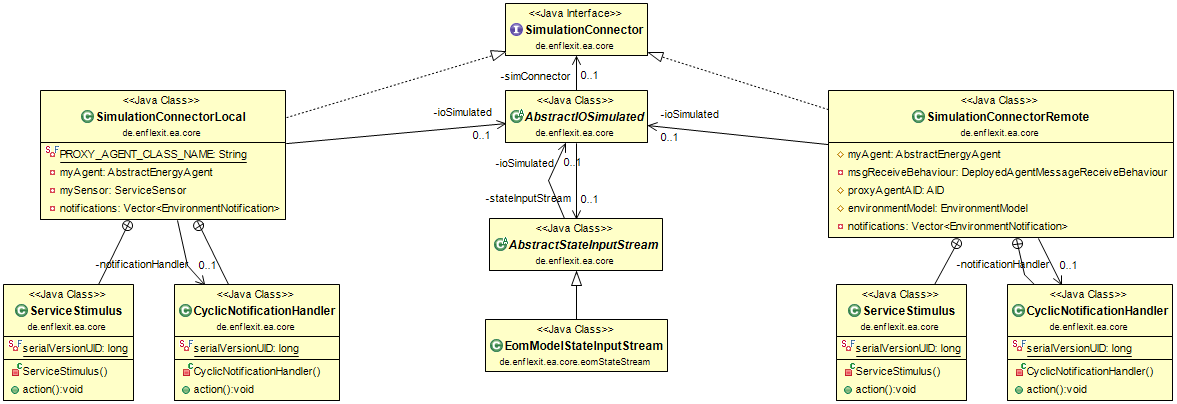
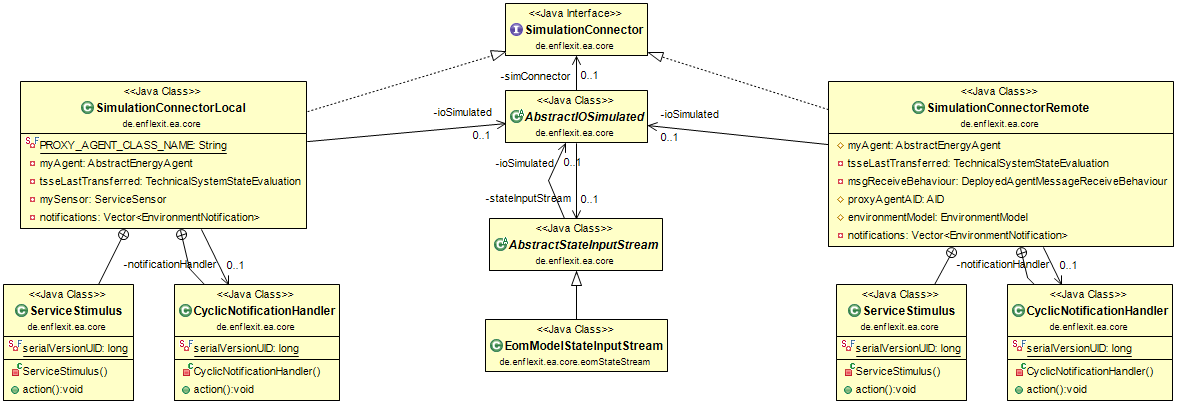
Fixed the transfer of TSSEs to the simulation manager in discrete simulations when EOM timesteps != simulation steps

diff --git a/eclipseProjects/de.enflexit.ea/bundles/de.enflexit.ea.core/src/de/enflexit/ea/core/eomStateStream/EomModelStateInputStream.java b/eclipseProjects/de.enflexit.ea/bundles/de.enflexit.ea.core/src/de/enflexit/ea/core/eomStateStream/EomModelStateInputStream.java
@@ -551,93 +551,124 @@ public class EomModelStateInputStream extends AbstractStateInputStream {
 		this.stopTimeTriggerForSystemInput();
 	}
 	
+	
 	// ----------------------------------------------------------------------------------
 	// --- From here, methods for the simulation runtime can be found ------------------- 
 	// ----------------------------------------------------------------------------------
 	/* (non-Javadoc)
-	 * @see de.enflexit.energyAgent.core.eomStateStream.AbstractStateInputStream#getSystemState(long)
+	 * @see de.enflexit.ea.core.AbstractStateInputStream#getSystemState(long)
 	 */
 	@Override
-	public TechnicalSystemStateEvaluation getSystemState(long simTime) {
+	public TechnicalSystemStateEvaluation getSystemStateForTimeModelContinuous(long simTime) {
 		
 		TechnicalSystemStateEvaluation tsseAnswer = null;
-		
 		AbstractIOSimulated ioSimulated = this.getIoSimulated();
-		switch (ioSimulated.getTimeModelType()) {
-		case TimeModelDiscrete:
-			if (this.getRealTimeStrategy()!=null) {
-				// --------------------------------------------------------
-				// --- Work on the real time strategy for this system ----- 
-				// --------------------------------------------------------
-				TechnicalSystemStateEvaluation tsseLocal = this.getTechnicalSystemStateEvaluationFromRealTimeStrategy(simTime);
-				if (tsseLocal!=null) {
-					// --- Adjust system state regarding parent and time --
-					tsseAnswer = this.getTechnicalSystemStateEvaluationCloneWithoutParent(tsseLocal);
-					if (tsseLocal.getParent()!=null) {
-						tsseAnswer.setStateTime(ioSimulated.getTimeModelDiscrete().getStep());
-					}
-				}
-				
+		
+		if (this.getRealTimeStrategy()!=null) {
+			// --------------------------------------------------------
+			// --- Work on the real time strategy for this system ----- 
+			// --------------------------------------------------------
+			TechnicalSystemStateEvaluation tsseLocal = this.getTechnicalSystemStateEvaluationFromRealTimeStrategy(simTime);
+			if (tsseLocal!=null) {
+				// --- Adjust system state regarding parent and time --
+				tsseAnswer = this.getTechnicalSystemStateEvaluationCloneWithoutParent(tsseLocal);
+			}
+			
+		} else {
+			// --------------------------------------------------------
+			// --- Work on the static schedule for this system --------
+			// --------------------------------------------------------
+			tsseAnswer = this.getTechnicalSystemStateEvaluation4Time(simTime, true);	
+		}
+		
+		// --- Start the process according to the simulated time ------  
+		if (this.getRealTimeStrategy()!=null) {
+			// --------------------------------------------------------
+			// --- Work with the real time strategy for this system --- 
+			// --------------------------------------------------------
+			if (tsseAnswer!=null) {
+				this.startTimeTriggerForSystemInputRT(tsseAnswer.getGlobalTime());
 			} else {
-				// --------------------------------------------------------
-				// --- Work on the static schedule for this system --------
-				// --------------------------------------------------------
-				if (this.tsseAnswerNext!=null && this.tsseAnswerNext.getGlobalTime()==simTime) {
-					tsseAnswer = this.tsseAnswerNext;
-				} else {
-					tsseAnswer = this.getTechnicalSystemStateEvaluation4Time(simTime, false);
-				}
+				// --- Send that this IO will not send further information --
+				ioSimulated.getSimulationConnector().sendManagerNotification(STATE_CONFIRMATION.Done);
+			}
+			
+		} else {
+			// --------------------------------------------------------
+			// --- Work on the static schedule for this system --------
+			// --------------------------------------------------------
+			this.startTimeTriggerForSystemInput();
+		}
+		return tsseAnswer;
+	}
+	
+	/* (non-Javadoc)
+	 * @see de.enflexit.ea.core.AbstractStateInputStream#getSystemState(long, long)
+	 */
+	@Override
+	public TechnicalSystemStateEvaluation getSystemStatesForTimeModelDiscrete(long simTime, long timeStep) {
+		
+		TechnicalSystemStateEvaluation tsseAnswer = null;
+		AbstractIOSimulated ioSimulated = this.getIoSimulated();
+		long simStepBegin = simTime - timeStep;
+		if (this.getRealTimeStrategy()!=null) {
+			// --------------------------------------------------------
+			// --- Work on the real time strategy for this system ----- 
+			// --------------------------------------------------------
+			TechnicalSystemStateEvaluation tsseLocal = this.getTechnicalSystemStateEvaluationFromRealTimeStrategy(simTime);
+			
+			if (tsseLocal!=null) {
+				tsseAnswer = this.cloneTsseWithLimitedParents(tsseLocal, simStepBegin);
+			}
+			
+		} else {
+			// --------------------------------------------------------
+			// --- Work on the static schedule for this system --------
+			// --------------------------------------------------------
+			if (this.tsseAnswerNext!=null && this.tsseAnswerNext.getGlobalTime()==simTime) {
+				tsseAnswer = this.tsseAnswerNext;
+			} else {
+				TechnicalSystemStateEvaluation scheduleStateForTime = this.getTechnicalSystemStateEvaluation4Time(simTime, false, false);
+				tsseAnswer = this.cloneTsseWithLimitedParents(scheduleStateForTime, simStepBegin);
 			}
 			
 			// ------------------------------------------------------------
 			// --- Get the system state for the next time step ------------
 			// ------------------------------------------------------------
 			long simTimeNext = simTime + ioSimulated.getTimeModelDiscrete().getStep();
-			this.tsseAnswerNext = this.getTechnicalSystemStateEvaluation4Time(simTimeNext, false);
-			// ------------------------------------------------------------
-			break;
-
-		case TimeModelContinuous:
-			if (this.getRealTimeStrategy()!=null) {
-				// --------------------------------------------------------
-				// --- Work on the real time strategy for this system ----- 
-				// --------------------------------------------------------
-				TechnicalSystemStateEvaluation tsseLocal = this.getTechnicalSystemStateEvaluationFromRealTimeStrategy(simTime);
-				if (tsseLocal!=null) {
-					// --- Adjust system state regarding parent and time --
-					tsseAnswer = this.getTechnicalSystemStateEvaluationCloneWithoutParent(tsseLocal);
-				}
-				
-			} else {
-				// --------------------------------------------------------
-				// --- Work on the static schedule for this system --------
-				// --------------------------------------------------------
-				tsseAnswer = this.getTechnicalSystemStateEvaluation4Time(simTime, true);	
-			}
+			TechnicalSystemStateEvaluation scheduleStateForNextTime = this.getTechnicalSystemStateEvaluation4Time(simTimeNext - timeStep, false, false);
+			this.tsseAnswerNext = this.cloneTsseWithLimitedParents(scheduleStateForNextTime, simStepBegin);
 			
-			// --- Start the process according to the simulated time ------  
-			if (this.getRealTimeStrategy()!=null) {
-				// --------------------------------------------------------
-				// --- Work with the real time strategy for this system --- 
-				// --------------------------------------------------------
-				if (tsseAnswer!=null) {
-					this.startTimeTriggerForSystemInputRT(tsseAnswer.getGlobalTime());
-				} else {
-					// --- Send that this IO will not send further information --
-					ioSimulated.getSimulationConnector().sendManagerNotification(STATE_CONFIRMATION.Done);
-				}
-				
-			} else {
-				// --------------------------------------------------------
-				// --- Work on the static schedule for this system --------
-				// --------------------------------------------------------
-				this.startTimeTriggerForSystemInput();
-			}
-			break;
+			// ------------------------------------------------------------
 		}
+
 		return tsseAnswer;
 	}
-
+	
+	
+	/**
+	 * Clones a {@link TechnicalSystemStateEvaluation}, recursively including its predecessors wich are after   
+	 * @param tsse the tsse
+	 * @param cloneUntil the clone until
+	 * @return the technical system state evaluation
+	 */
+	private TechnicalSystemStateEvaluation cloneTsseWithLimitedParents(TechnicalSystemStateEvaluation tsse, long cloneUntil) {
+		
+		if (tsse==null) return null;
+		
+		// --- Clone the parent state first, if it exists and is within the time span of interest
+		TechnicalSystemStateEvaluation parentState = null;
+		if (tsse.getParent()!=null && tsse.getParent().getGlobalTime()>cloneUntil) {
+			parentState = this.cloneTsseWithLimitedParents(tsse.getParent(), cloneUntil);
+		}
+		
+		// --- Clone the state itself and set the parent ----------------------
+		TechnicalSystemStateEvaluation tsseClone = this.getTechnicalSystemStateEvaluationCloneWithoutParent(tsse);
+		tsseClone.setParent(parentState);
+		
+		return tsseClone;
+	}
+	
 	/* (non-Javadoc)
 	 * @see de.enflexit.energyAgent.core.eomStateStream.AbstractStateInputStream#getIOSettings(long, energy.optionModel.TechnicalSystemStateEvaluation)
 	 */
@@ -702,35 +733,50 @@ public class EomModelStateInputStream extends AbstractStateInputStream {
 		return tsseLocal;	
 	}
 	
+	/**
+	 * Gets the technical system state evaluation 4 time. Returns a clone without history.
+	 *
+	 * @param simulationTime the simulation time
+	 * @param isGetNextState the is get next state
+	 * @return the technical system state evaluation 4 time
+	 */
+	private TechnicalSystemStateEvaluation getTechnicalSystemStateEvaluation4Time(long simulationTime, boolean isGetNextState) {
+		return this.getTechnicalSystemStateEvaluation4Time(simulationTime, isGetNextState, true);
+	}
+	
 	
 	/**
 	 * Returns the TechnicalSystemStateEvaluation for the specified time.
 	 *
 	 * @param simulationTime the simulation time
 	 * @param isGetNextState set true, if you want to get the next system state
+	 * @param createClone specifies if the method should return a clone without history (true), or the original TSSE (false)
 	 * @return the technical system state evaluation
 	 */
-	private TechnicalSystemStateEvaluation getTechnicalSystemStateEvaluation4Time(long simulationTime, boolean isGetNextState) {
+	private TechnicalSystemStateEvaluation getTechnicalSystemStateEvaluation4Time(long simulationTime, boolean isGetNextState, boolean createClone) {
 		
 		Schedule schedule = this.getScheduleEnergyTransmission();
 		if (schedule==null) return null;
 		
 		TechnicalSystemStateEvaluation tsse4Time = null;
 		if (schedule.getTechnicalSystemStateEvaluation()!=null & schedule.getTechnicalSystemStateList().size()==0) {
-			tsse4Time = this.getTechnicalSystemStateEvaluation4TimeTreeSchedule(schedule, simulationTime, isGetNextState);
+			tsse4Time = this.getTechnicalSystemStateEvaluation4TimeTreeSchedule(schedule, simulationTime, isGetNextState, createClone);
 		} else if (schedule.getTechnicalSystemStateList().size()!=0) {
-			tsse4Time = this.getTechnicalSystemStateEvaluation4TimeListSchedule(schedule, simulationTime, isGetNextState);
+			tsse4Time = this.getTechnicalSystemStateEvaluation4TimeListSchedule(schedule, simulationTime, isGetNextState, createClone);
 		}
 		return tsse4Time;
 	}
+	
 	/**
 	 * Returns the TechnicalSystemStateEvaluation for the specified time from a list organized Schedule.
 	 *
+	 * @param schedule the schedule
 	 * @param simulationTime the simulation time
 	 * @param isGetNextState set true, if you want to get the next system state
+	 * @param createClone the create clone
 	 * @return the technical system state evaluation
 	 */
-	private TechnicalSystemStateEvaluation getTechnicalSystemStateEvaluation4TimeListSchedule(Schedule schedule, long simulationTime, boolean isGetNextState) {
+	private TechnicalSystemStateEvaluation getTechnicalSystemStateEvaluation4TimeListSchedule(Schedule schedule, long simulationTime, boolean isGetNextState, boolean createClone) {
 		
 		if (schedule==null) return null;
 		
@@ -786,7 +832,11 @@ public class EomModelStateInputStream extends AbstractStateInputStream {
 
 		// --- Something found ? ----------------------------------------------
 		if (tsseWork!=null) {
-			tsse4Time = this.getTechnicalSystemStateEvaluationCloneWithoutParent(tsseWork);
+			if (createClone==true) {
+				tsse4Time = this.getTechnicalSystemStateEvaluationCloneWithoutParent(tsseWork);
+			} else {
+				tsse4Time = tsseWork;
+			}
 		}
 		return tsse4Time;
 	}
@@ -798,7 +848,7 @@ public class EomModelStateInputStream extends AbstractStateInputStream {
 	 * @param isGetNextState set true, if you want to get the next system state
 	 * @return the technical system state evaluation
 	 */
-	private TechnicalSystemStateEvaluation getTechnicalSystemStateEvaluation4TimeTreeSchedule(Schedule schedule, long simulationTime, boolean isGetNextState) {
+	private TechnicalSystemStateEvaluation getTechnicalSystemStateEvaluation4TimeTreeSchedule(Schedule schedule, long simulationTime, boolean isGetNextState, boolean createClone) {
 	
 		if (schedule==null) return null;
 		
@@ -830,7 +880,11 @@ public class EomModelStateInputStream extends AbstractStateInputStream {
 			}
 			// --- Something found ? ------------------------------------------
 			if (tsseWork!=null) {
-				tsse4Time = this.getTechnicalSystemStateEvaluationCloneWithoutParent(tsseWork);
+				if (createClone==true) {
+					tsse4Time = this.getTechnicalSystemStateEvaluationCloneWithoutParent(tsseWork);
+				} else {
+					tsse4Time = tsseWork;
+				}
 			}
 		}
 		return tsse4Time;

diff --git a/eclipseProjects/de.enflexit.ea/bundles/de.enflexit.ea.core/src/de/enflexit/ea/core/AbstractIOSimulated.java b/eclipseProjects/de.enflexit.ea/bundles/de.enflexit.ea.core/src/de/enflexit/ea/core/AbstractIOSimulated.java
@@ -429,20 +429,24 @@ public abstract class AbstractIOSimulated extends Behaviour implements EnergyAge
 			// --- Start / continue simulation --------------------------------
 			// ----------------------------------------------------------------
 			long simTime = 0;
+			
+			TechnicalSystemStateEvaluation tsseAnswer = null;
+			
 			switch (this.getTimeModelType()) {
 			case TimeModelDiscrete:
 				// -- Get current time ----------------------------------------
 				simTime = this.getTime();
+				tsseAnswer = this.getStateInputStream().getSystemStatesForTimeModelDiscrete(simTime, this.getTimeModelDiscrete().getStep());
 				break;
 				
 			case TimeModelContinuous:
 				// --- Only used at the start of the simulation ---------------
 				simTime = this.getTimeModelContinuous().getTimeStart();
+				tsseAnswer = this.getStateInputStream().getSystemStateForTimeModelContinuous(simTime);
 				break;
 			}
 			
 			// --- Get time depending system state ----------------------------
-			TechnicalSystemStateEvaluation tsseAnswer = this.getStateInputStream().getSystemState(simTime);
 			FixedVariableList ioSettings = this.getStateInputStream().getIOSettings(simTime, tsseAnswer);
 
 			// --- Callback method to interfere before the new measurements are commited to the agent

diff --git a/eclipseProjects/de.enflexit.ea/bundles/de.enflexit.ea.core.simulation/src/de/enflexit/ea/core/simulation/manager/AggregationHandler.java b/eclipseProjects/de.enflexit.ea/bundles/de.enflexit.ea.core.simulation/src/de/enflexit/ea/core/simulation/manager/AggregationHandler.java
@@ -14,6 +14,7 @@ import de.enflexit.ea.core.dataModel.absEnvModel.HyGridAbstractEnvironmentModel.
 import de.enflexit.ea.core.dataModel.simulation.DiscreteSimulationStep;
 import de.enflexit.ea.core.dataModel.simulation.DiscreteSimulationStepCentralDecision;
 import de.enflexit.ea.core.simulation.decisionControl.AbstractCentralDecisionProcess;
+import energy.optionModel.TechnicalSystemStateEvaluation;
 import jade.core.AID;
 
 /**
@@ -98,11 +99,19 @@ public class AggregationHandler extends AbstractAggregationHandler {
 			}
 			
 			// --- Got a new system state from a part of the network ------------------------------
-			this.appendToNetworkComponentsScheduleController(networkComponentID, dsStep.getSystemState());
+			this.appendSeriesOfStates(networkComponentID, dsStep.getSystemState());
 
 		} else {
 			super.appendToNetworkComponentsScheduleController(networkComponentID, updateObject);
 		}
+	}
+	
+	private void appendSeriesOfStates(String networkID, TechnicalSystemStateEvaluation lastState) {
+		if (lastState==null) return;
+		if (lastState.getParent()!=null) {
+			this.appendSeriesOfStates(networkID, lastState.getParent());
+		}
+		this.appendToNetworkComponentsScheduleController(networkID, lastState);
 	}
 	
 	

diff --git a/eclipseProjects/de.enflexit.ea/bundles/de.enflexit.ea.core/src/de/enflexit/ea/core/AbstractStateInputStream.java b/eclipseProjects/de.enflexit.ea/bundles/de.enflexit.ea.core/src/de/enflexit/ea/core/AbstractStateInputStream.java
@@ -57,7 +57,19 @@ public abstract class AbstractStateInputStream {
 	 * @param globalTime the global time
 	 * @return the system state
 	 */
-	public abstract TechnicalSystemStateEvaluation getSystemState(long globalTime);
+	public abstract TechnicalSystemStateEvaluation getSystemStateForTimeModelContinuous(long globalTime);
+	
+	/**
+	 * Has to return the system state (a {@link TechnicalSystemStateEvaluation}) for the specified time.
+	 * Thus, this method represents the main job to be done from a data input stream. It may handle 
+	 * the data to be loaded to the memory as flexible and slim as possible. E.g. to reduce memory 
+	 * footprint for long time simulations.     
+	 *
+	 * @param globalTime the global time
+	 * @param timeStep the time step
+	 * @return the system state
+	 */
+	public abstract TechnicalSystemStateEvaluation getSystemStatesForTimeModelDiscrete(long globalTime, long timeStep);
 	
 	/**
 	 * Has to return the IO settings for the specified system state.
